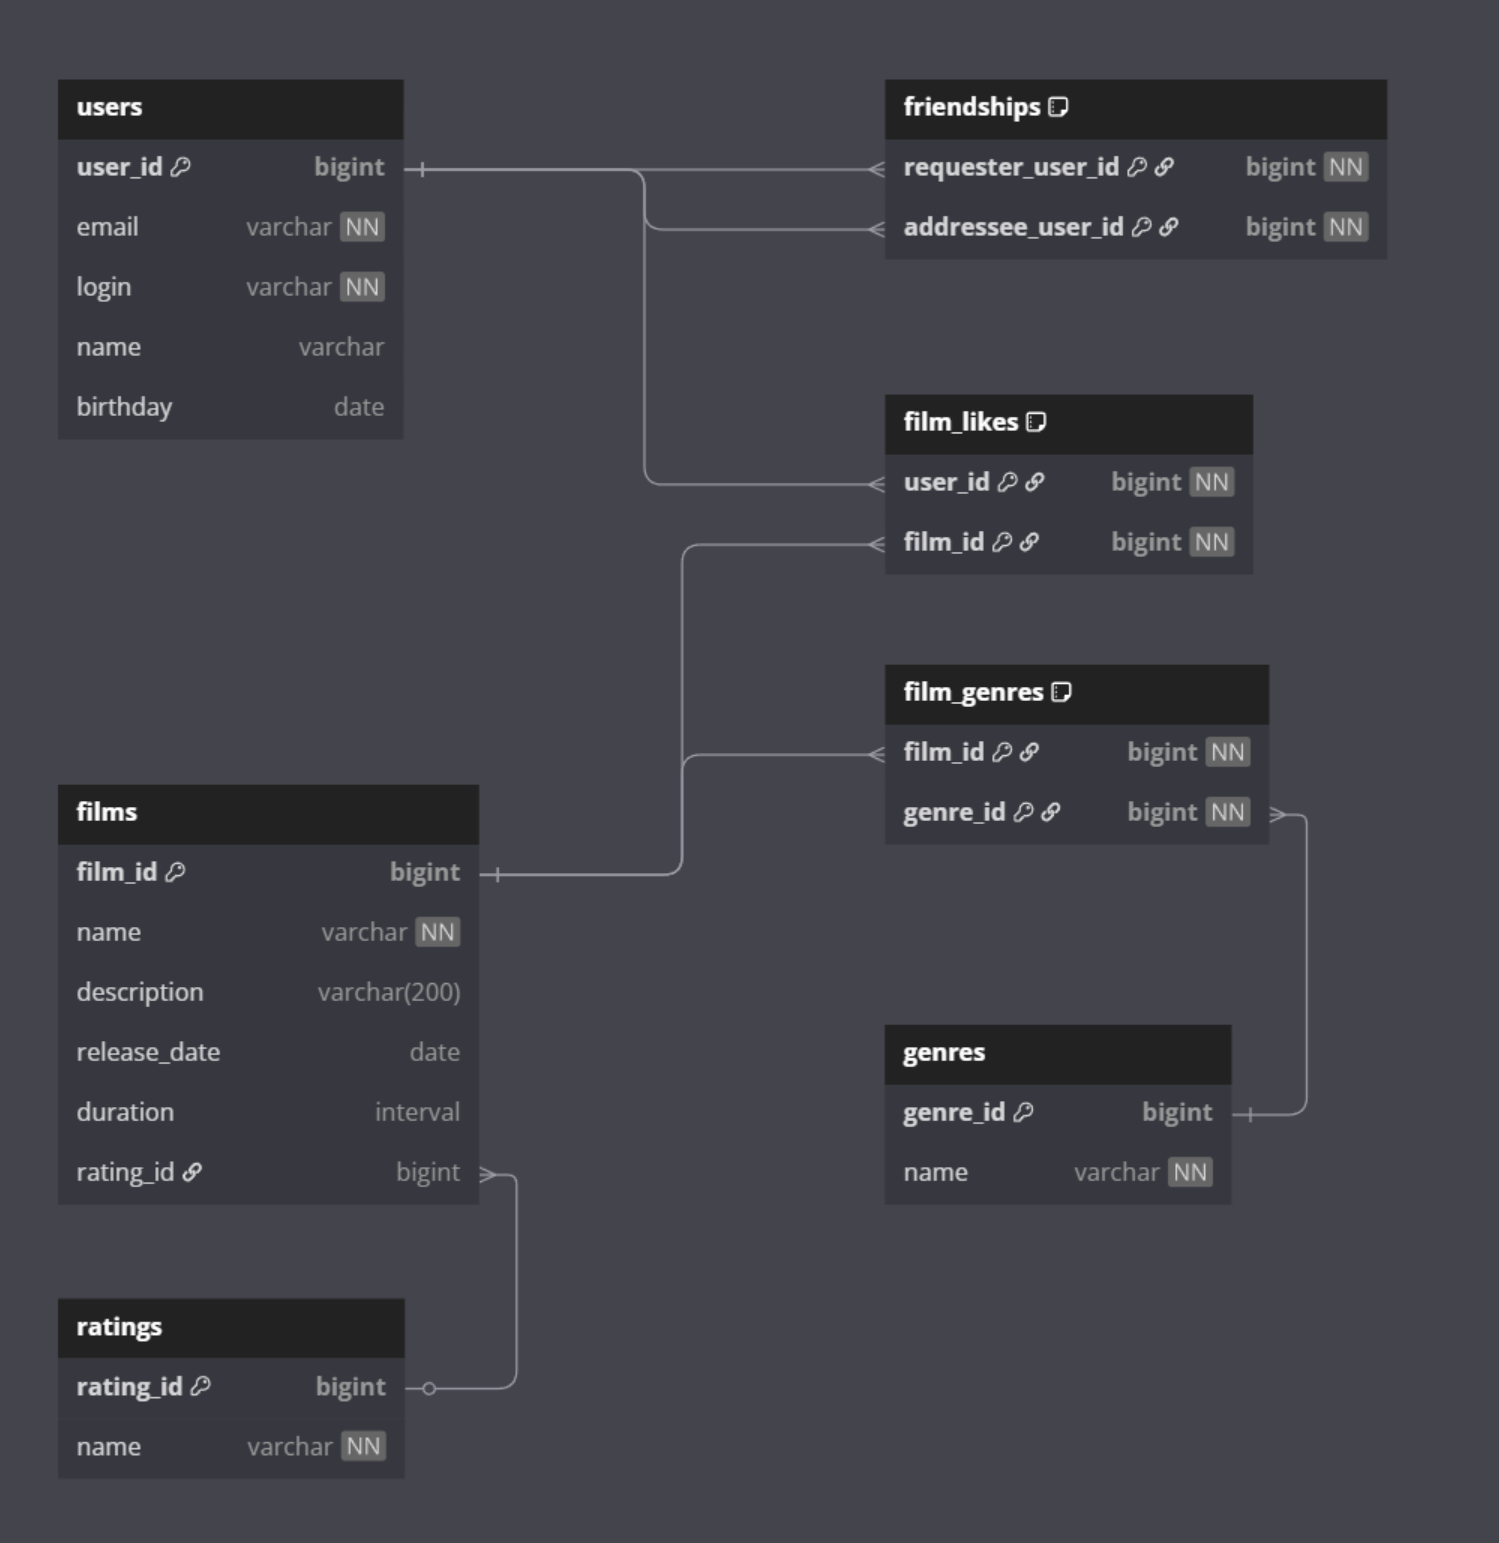
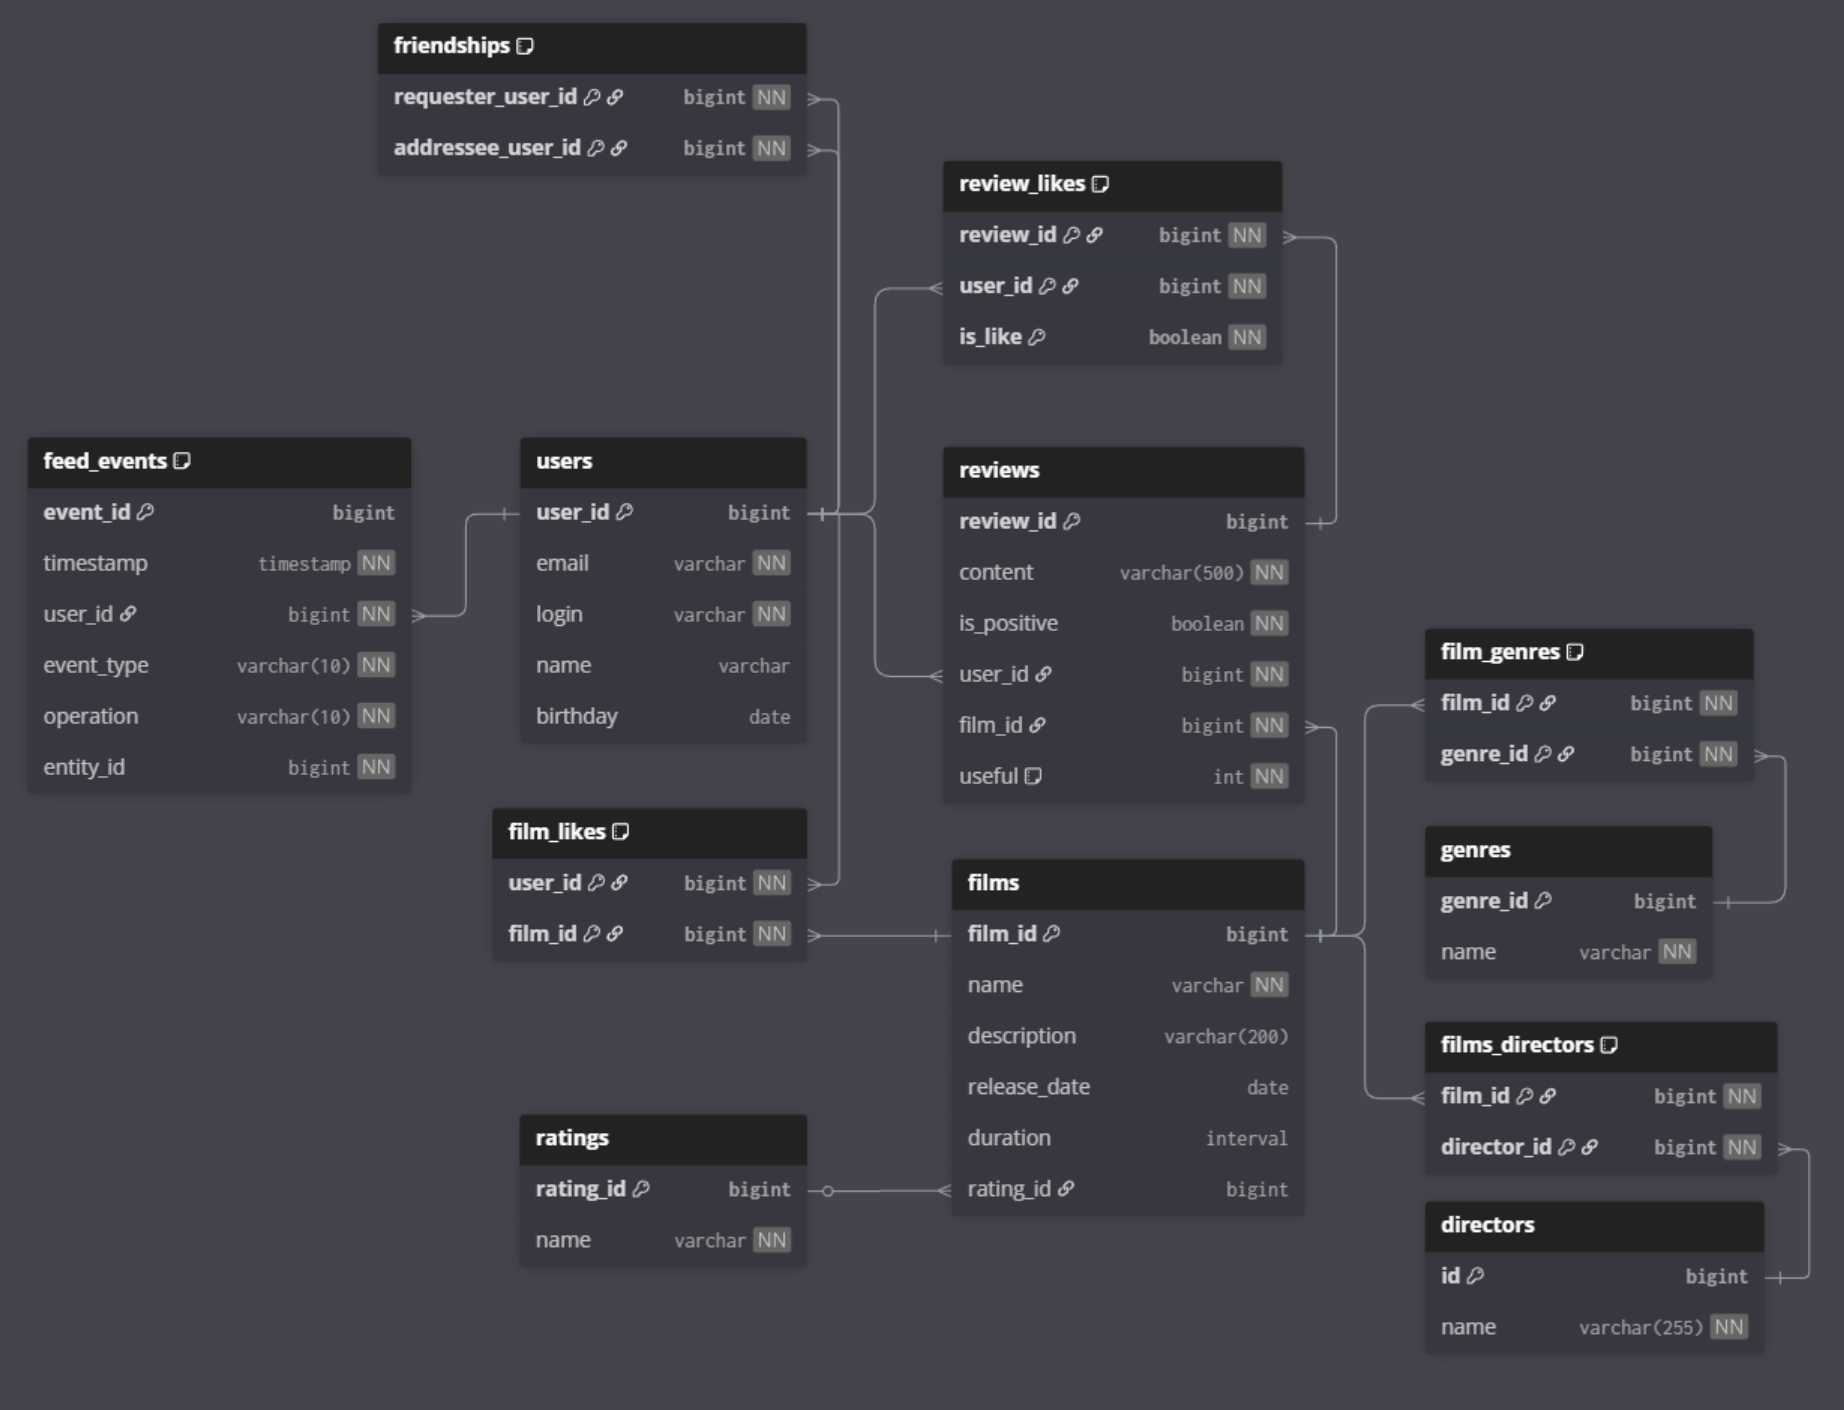
chore: update ER and description

diff --git a/README.md b/README.md
@@ -7,9 +7,15 @@
 ### Таблицы
 
 - **users** — пользователи: `email`, `login`, `name`, `birthday`
-- **friendships** — дружба между пользователями с полем `status` (`pending`, `accepted`)
+- **friendships** — дружба между пользователями
 - **films** — фильмы: `name`, `description`, `release_date`, `duration`, `rating`
 - **genres** — жанры фильмов
 - **film_genres** — связь many-to-many между фильмами и жанрами
 - **film_likes** — связь many-to-many между пользователями и фильмами (лайки)
 - **ratings** — справочник возрастных рейтингов фильмов
+- **directors** — справочник режиссёров
+- **films_directors** — связь many-to-many между фильмами и режиссёрами
+- **feed_events** — события активности пользователей: тип (`LIKE`, `REVIEW`, `FRIEND`), операция (`ADD`, `REMOVE`,
+  `UPDATE`), связанные сущности (`user_id`, `entity_id`)
+- **reviews** — отзывы пользователей на фильмы: `content`, `is_positive`, `user_id`, `film_id`, `useful`
+- **review_likes** — лайки/дизлайки к отзывам: `review_id`, `user_id`, `is_like`
